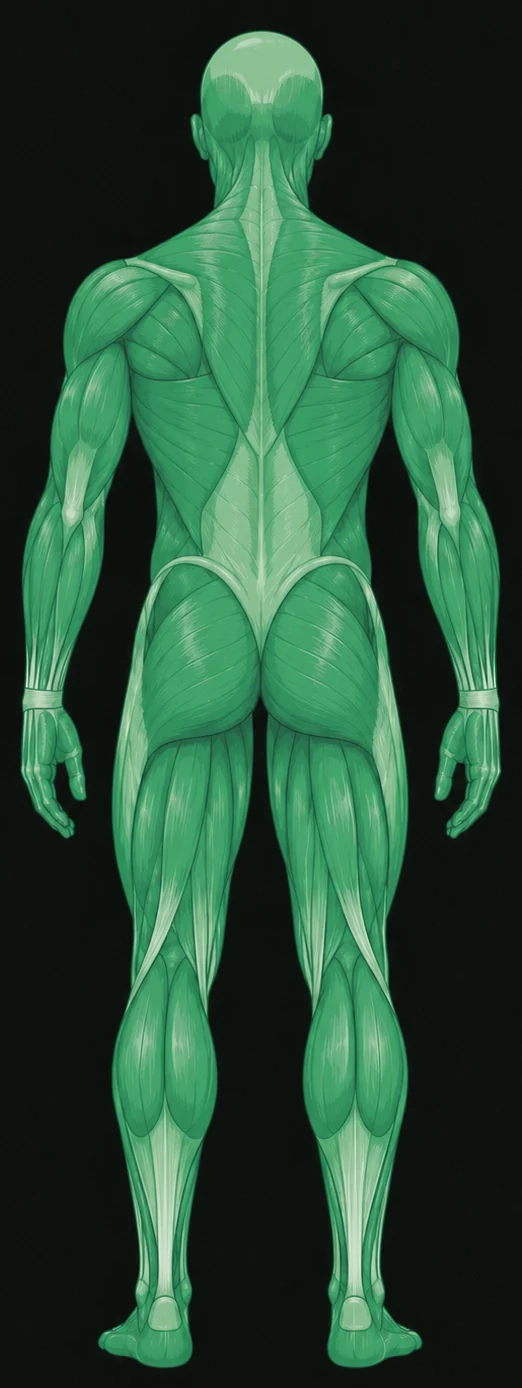
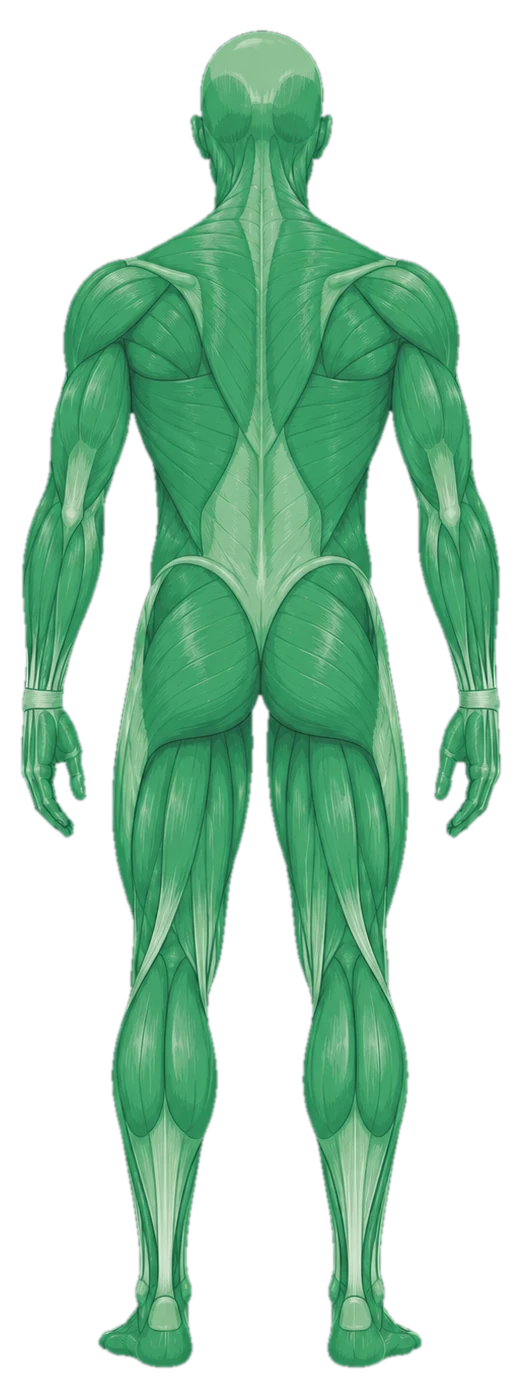
16juliofin

diff --git a/src/components/musclePriorities/MuscleDiagramPhoto.tsx b/src/components/musclePriorities/MuscleDiagramPhoto.tsx
@@ -12,6 +12,9 @@ interface MuscleDiagramPhotoProps {
   selected: MuscleRegionId[];
   onRegionPress: (id: MuscleRegionId) => void;
   calibrationMode?: boolean;
+  // Default = mismo valor fijo que usa el wrapper de MuscleDiagram.tsx
+  // (diagramWrap: { width: 200, height: 520 } en muscleDiagramDebug.tsx).
+  maxHeight?: number;
 }
 
 const GREEN = '#3FBF7F';
@@ -31,31 +34,31 @@ interface ZoneDef {
 // Coordenadas de partida (estimadas, se recalibran después) — unidades 0-100
 // = porcentaje del contenedor, tal cual las diste.
 const FRONT_ZONES: ZoneDef[] = [
-  { id: 'shoulders', key: 'shoulders_r', cx: 18, cy: 19, rx: 11, ry: 6 },
-  { id: 'shoulders', key: 'shoulders_l', cx: 82, cy: 19, rx: 11, ry: 6 },
-  { id: 'chest', key: 'chest_r', cx: 39, cy: 26, rx: 12, ry: 7 },
-  { id: 'chest', key: 'chest_l', cx: 61, cy: 26, rx: 12, ry: 7 },
-  { id: 'biceps', key: 'biceps_r', cx: 12, cy: 32, rx: 7, ry: 9 },
-  { id: 'biceps', key: 'biceps_l', cx: 88, cy: 32, rx: 7, ry: 9 },
-  { id: 'core_abdomen', key: 'core_abdomen', cx: 50, cy: 40, rx: 15, ry: 9 },
-  { id: 'quads', key: 'quads_r', cx: 36, cy: 60, rx: 11, ry: 12 },
-  { id: 'quads', key: 'quads_l', cx: 64, cy: 60, rx: 11, ry: 12 },
+  { id: 'shoulders', key: 'shoulders_r', cx: 26, cy: 21.5, rx: 7, ry: 5 },
+  { id: 'shoulders', key: 'shoulders_l', cx: 74, cy: 21.5, rx: 7, ry: 5 },
+  { id: 'chest', key: 'chest_r', cx: 39, cy: 26.5, rx: 10, ry: 6.5 },
+  { id: 'chest', key: 'chest_l', cx: 61, cy: 26.5, rx: 10, ry: 6.5 },
+  { id: 'biceps', key: 'biceps_r', cx: 19, cy: 34, rx: 6.5, ry: 7.5 },
+  { id: 'biceps', key: 'biceps_l', cx: 81, cy: 34, rx: 6.5, ry: 7.5 },
+  { id: 'core_abdomen', key: 'core_abdomen', cx: 50, cy: 43.5, rx: 13, ry: 10 },
+  { id: 'quads', key: 'quads_r', cx: 39.5, cy: 62, rx: 8.5, ry: 11 },
+  { id: 'quads', key: 'quads_l', cx: 60.5, cy: 62, rx: 8.5, ry: 11 },
 ];
 
 const BACK_ZONES: ZoneDef[] = [
-  { id: 'back', key: 'back', cx: 50, cy: 25, rx: 22, ry: 13 },
-  { id: 'triceps', key: 'triceps_r', cx: 12, cy: 30, rx: 7, ry: 9 },
-  { id: 'triceps', key: 'triceps_l', cx: 88, cy: 30, rx: 7, ry: 9 },
-  { id: 'glutes', key: 'glutes_r', cx: 40, cy: 44, rx: 11, ry: 7 },
-  { id: 'glutes', key: 'glutes_l', cx: 60, cy: 44, rx: 11, ry: 7 },
-  { id: 'hamstrings', key: 'hamstrings_r', cx: 37, cy: 59, rx: 11, ry: 10 },
-  { id: 'hamstrings', key: 'hamstrings_l', cx: 63, cy: 59, rx: 11, ry: 10 },
-  { id: 'calves', key: 'calves_r', cx: 37, cy: 78, rx: 9, ry: 9 },
-  { id: 'calves', key: 'calves_l', cx: 63, cy: 78, rx: 9, ry: 9 },
+  { id: 'back', key: 'back', cx: 50, cy: 29, rx: 20, ry: 13.5 },
+  { id: 'triceps', key: 'triceps_r', cx: 17.5, cy: 31, rx: 6, ry: 7.5 },
+  { id: 'triceps', key: 'triceps_l', cx: 82.5, cy: 31, rx: 6, ry: 7.5 },
+  { id: 'glutes', key: 'glutes_r', cx: 43.5, cy: 49.5, rx: 7.5, ry: 5.5 },
+  { id: 'glutes', key: 'glutes_l', cx: 56.5, cy: 49.5, rx: 7.5, ry: 5.5 },
+  { id: 'hamstrings', key: 'hamstrings_r', cx: 40, cy: 63, rx: 8, ry: 9 },
+  { id: 'hamstrings', key: 'hamstrings_l', cx: 60, cy: 63, rx: 8, ry: 9 },
+  { id: 'calves', key: 'calves_r', cx: 40.5, cy: 81.5, rx: 6.5, ry: 7.5 },
+  { id: 'calves', key: 'calves_l', cx: 59.5, cy: 81.5, rx: 6.5, ry: 7.5 },
 ];
 
 export function MuscleDiagramPhoto({
-  view, selected, onRegionPress, calibrationMode = true,
+  view, selected, onRegionPress, calibrationMode = true, maxHeight = 520,
 }: MuscleDiagramPhotoProps) {
   const zones = view === 'front' ? FRONT_ZONES : BACK_ZONES;
   const aspectRatio = view === 'front' ? FRONT_ASPECT : BACK_ASPECT;
@@ -63,11 +66,23 @@ export function MuscleDiagramPhoto({
     ? require('@/assets/images/musclePriorities/front.webp')
     : require('@/assets/images/musclePriorities/back.webp');
 
-  return (
-    <View style={[styles.container, { aspectRatio }]}>
-      <Image source={imageSource} resizeMode="contain" style={StyleSheet.absoluteFill} />
+  const width = maxHeight * aspectRatio;
 
-      <Svg viewBox="0 0 100 100" style={StyleSheet.absoluteFill}>
+  return (
+    <View style={[styles.container, { width, height: maxHeight }]}>
+      <Image
+        source={imageSource}
+        resizeMode="contain"
+        style={{ position: 'absolute', top: 0, left: 0, width, height: maxHeight }}
+      />
+
+      <Svg
+        viewBox="0 0 100 100"
+        preserveAspectRatio="none"
+        width={width}
+        height={maxHeight}
+        style={{ position: 'absolute', top: 0, left: 0 }}
+      >
         {!calibrationMode && (
           <Defs>
             <RadialGradient id="glowGrad" cx="50%" cy="50%" r="50%">
@@ -136,7 +151,7 @@ export function MuscleDiagramPhoto({
 
 const styles = StyleSheet.create({
   container: {
-    width: '100%',
     position: 'relative',
+    alignSelf: 'center',
   },
 });

diff --git a/src/app/muscleDiagramDebug.tsx b/src/app/muscleDiagramDebug.tsx
@@ -117,7 +117,7 @@ const styles = StyleSheet.create({
   tabText: { fontSize: 13 },
   tabTextActive: { fontSize: 13, fontWeight: '700', color: GREEN },
   diagramWrap: { width: 200, height: 520 },
-  diagramPhotoWrap: { width: 260 },
+  diagramPhotoWrap: { height: 520 },
   counter: { fontSize: 15 },
   list: { fontSize: 13 },
   closeBtn: {

diff --git a/CLAUDE.md b/CLAUDE.md
@@ -1255,10 +1255,11 @@ Bucle ~1.3 s sobre fondo #141A17:
   duplicada (`front.webp.webp`/`back.webp.webp`); Juan las renombró a mano
   a los nombres correctos antes de que se usaran en código — ese rename
   sigue sin comitear (ver más abajo).
-- **FASE 0-B-1 Paso 3 — pantalla de prioridades: EN EXPLORACIÓN, SIN
-  COMMIT** (sesión 2026-07-15). Todo lo siguiente está en el working tree,
-  sin comitear, a la espera de que Juan decida entre las dos opciones antes
-  de seguir:
+- **FASE 0-B-1 Paso 3 — pantalla de prioridades: EN EXPLORACIÓN** (spike
+  construido 2026-07-15, comiteado ese mismo día en `40d330c` "15juliofin" —
+  ver detalle de working tree más abajo; calibración de la Opción B hecha el
+  2026-07-16, todavía sin comitear). A la espera de que Juan decida entre
+  las dos opciones antes de seguir:
   * **Descartado y ya limpiado por completo**: spike 3a
     (`useMuscleSpikeStore` + `SvgTouchSpike.tsx`) confirmó con evidencia real
     en dispositivo que **`<Use href="#id">` de `react-native-svg` NO dispara
@@ -1285,12 +1286,10 @@ Bucle ~1.3 s sobre fondo #141A17:
   * **Opción B — `src/components/musclePriorities/MuscleDiagramPhoto.tsx`**
     (foto real de fondo + zonas de toque calibrables): usa
     `front.webp`/`back.webp`, aspect ratio real por vista (516:1482 /
-    522:1388, sin forzar igualdad), `<Svg viewBox="0 0 100 100">` encima con
-    una `Ellipse` real por zona (coordenadas de partida ESTIMADAS, pendientes
-    de recalibrar). Prop `calibrationMode` (default `true`): zonas visibles
-    con etiqueta de texto con el id, para ajustar coordenadas viendo la foto
-    real. `calibrationMode=false`: zonas invisibles + resplandor con
-    degradado radial ámbar en la región seleccionada.
+    522:1388, sin forzar igualdad). Prop `calibrationMode` (default `true`):
+    zonas visibles con etiqueta de texto con el id, para ajustar coordenadas
+    viendo la foto real. `calibrationMode=false`: zonas invisibles +
+    resplandor con degradado radial ámbar en la región seleccionada.
   * **Arnés de debug**: `src/store/muscleDiagramDebugStore.ts` +
     `src/app/muscleDiagramDebug.tsx` (marcado `// TEMPORAL — spike paso 3b,
     se reemplaza en paso 3c`), montado en `_layout.tsx` y accesible desde un
@@ -1298,19 +1297,40 @@ Bucle ~1.3 s sobre fondo #141A17:
     con foto" para alternar entre las dos opciones sin salir de la pantalla,
     reutilizando el mismo estado `selected`/`handleRegionPress` (tope de 2
     zonas, con pulso visual `Animated` si se intenta una 3.ª) para ambas.
-  * **Estado del working tree ahora mismo (sin commit)**: modificados
-    `_layout.tsx`, `profile.tsx`; nuevos `muscleDiagramDebug.tsx`,
-    `muscleDiagramDebugStore.ts`, `src/components/musclePriorities/`
-    (`MuscleDiagram.tsx` + `MuscleDiagramPhoto.tsx`); rename sin comitear de
-    los dos `.webp`; además queda sin comitear `MUSCLE_SCREEN_AUDIT.md`
-    (auditoría de solo lectura de una sesión anterior, sin relación con el
-    spike). `npx tsc --noEmit` limpio en cada paso.
-- Siguiente inmediato: Juan tiene que ver ambas opciones en Android (usando
-  el botón "Diagrama corporal (temporal)" en Perfil → pestaña "Ver con
-  foto" para alternar) y decidir Opción A (SVG) vs Opción B (foto +
-  calibración) antes de seguir con el Paso 3c real. Si elige la Opción B,
-  falta recalibrar las coordenadas estimadas de las zonas contra las fotos
-  reales. Una vez decidido: comitear lo elegido, borrar el descartado y el
+  * **Commit `40d330c` "15juliofin" (2026-07-15)**: incluyó `_layout.tsx`,
+    `profile.tsx`, `muscleDiagramDebug.tsx`, `muscleDiagramDebugStore.ts`,
+    `MuscleDiagram.tsx`, `MuscleDiagramPhoto.tsx`, el rename de los dos
+    `.webp` y `MUSCLE_SCREEN_AUDIT.md` — confirmado con `git show --stat` (la
+    entrada anterior de esta sección decía "sin commit"; quedó desactualizada
+    un día).
+  * **Sesión 2026-07-16 — bug de render + calibración real (sin comitear
+    todavía)**: dos bugs de raíz encontrados y corregidos en
+    `MuscleDiagramPhoto.tsx` vía diagnóstico `onLayout` temporal (añadido y
+    luego eliminado por completo, junto con su equivalente en
+    `muscleDiagramDebug.tsx`):
+    1. El `<Image>` ignoraba `StyleSheet.absoluteFill` y se renderizaba a su
+       tamaño intrínseco (516×1482dp) en vez de ajustarse al contenedor →
+       fix: `width`/`height` explícitos (`width = maxHeight * aspectRatio`)
+       en vez de depender de `aspectRatio` de estilo.
+    2. El `<Svg viewBox="0 0 100 100">` (cuadrado) sufría letterboxing
+       (`preserveAspectRatio` por defecto `xMidYMid meet`) sobre una caja
+       181×520 → las 18 zonas quedaban comprimidas en un cuadrado centrado
+       en vez de repartidas por todo el alto → fix:
+       `preserveAspectRatio="none"` + `width`/`height` explícitos (mismos
+       números que el `Image`), así las unidades 0-100 vuelven a significar
+       "porcentaje de cada eje" tal como se diseñaron.
+    * Con el render ya correcto, Juan reemplazó `front.webp`/`back.webp` por
+      versiones con fondo transparente (mismas dimensiones — reverificado
+      con `sharp`: 516×1482 / 522×1388, `hasAlpha:true`) y midió las 18
+      coordenadas reales sobre la foto corregida. `FRONT_ZONES`/`BACK_ZONES`
+      reemplazadas con esos valores medidos (antes eran estimaciones).
+    * `npx tsc --noEmit` limpio en cada paso de la sesión. Sin commit —
+      pendiente de que Juan pruebe en Android antes de comitear.
+- Siguiente inmediato: Juan tiene que probar la Opción B ya calibrada en
+  Android (botón "Diagrama corporal (temporal)" en Perfil → pestaña "Ver con
+  foto") y decidir Opción A (SVG) vs Opción B (foto, ahora con render y
+  coordenadas correctas) antes de seguir con el Paso 3c real. Una vez
+  decidido: comitear la calibración de hoy, borrar la opción descartada y el
   arnés de debug, y conectar la pantalla real a `musclePriorities`/
   `profile.store.ts` (Paso 3c). Otros candidatos del roadmap sin tocar:
   FASE D (deloads automáticos + gráfica 1RM en Progreso), FASE 7 (in-app
